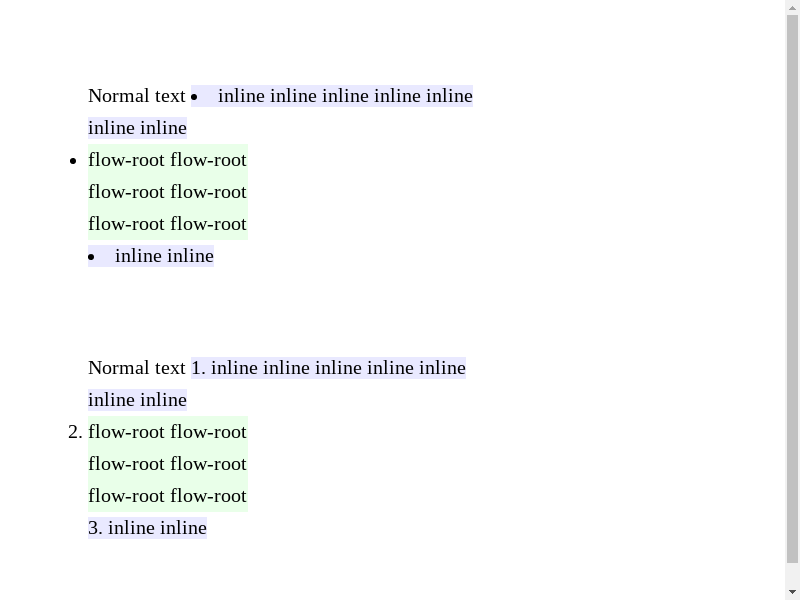
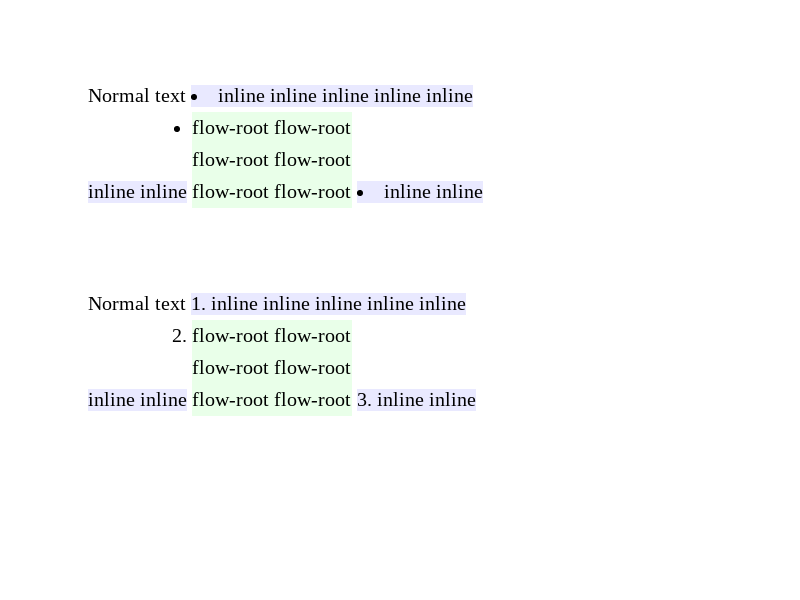
css-multiple-display: Support 'inline flow-root list-item' rendering
Bug: 995106
Commit-Queue: Koji Ishii <kojii@chromium.org>
Code-Coverage: Findit <findit-for-me@appspot.gserviceaccount.com>
Auto-Submit: Kent Tamura <tkent@chromium.org>
Cr-Commit-Position: refs/heads/main@{#1132479}
NOKEYCHECK=True
GitOrigin-RevId: c447abea818ec8d35e2bb67a72518752ef6f6071

diff --git a/blink/renderer/core/layout/ng/inline/ng_inline_layout_algorithm.cc b/blink/renderer/core/layout/ng/inline/ng_inline_layout_algorithm.cc
@@ -263,8 +263,9 @@ void NGInlineLayoutAlgorithm::CreateLine(
   // strut, for *every* line. This matches other browsers. The intention may
   // have been to make sure that there's always room for the list item marker,
   // but that doesn't explain why it's done for every line...
-  if (quirks_mode_ && line_style.Display() == EDisplay::kListItem)
+  if (quirks_mode_ && ComputedStyle::IsDisplayListItem(line_style.Display())) {
     box->ComputeTextMetrics(line_style, *box->font, baseline_type_);
+  }
 
   for (NGInlineItemResult& item_result : *line_items) {
     DCHECK(item_result.item);

diff --git a/blink/renderer/core/style/computed_style.h b/blink/renderer/core/style/computed_style.h
@@ -2572,6 +2572,7 @@ class ComputedStyle : public ComputedStyleBase,
 
   static bool IsDisplayReplacedType(EDisplay display) {
     return display == EDisplay::kInlineBlock ||
+           display == EDisplay::kInlineFlowRootListItem ||
            display == EDisplay::kWebkitInlineBox ||
            display == EDisplay::kInlineFlex ||
            display == EDisplay::kInlineTable ||

diff --git a/blink/renderer/core/layout/ng/inline/ng_inline_items_builder.cc b/blink/renderer/core/layout/ng/inline/ng_inline_items_builder.cc
@@ -1252,8 +1252,9 @@ void NGInlineItemsBuilderTemplate<OffsetMappingBuilder>::EnterBlock(
                      kPopDirectionalFormattingCharacter);
   }
 
-  if (style->Display() == EDisplay::kListItem && style->ListStyleType())
+  if (style->IsDisplayListItem() && style->ListStyleType()) {
     is_block_level_ = false;
+  }
 }
 
 template <typename OffsetMappingBuilder>
